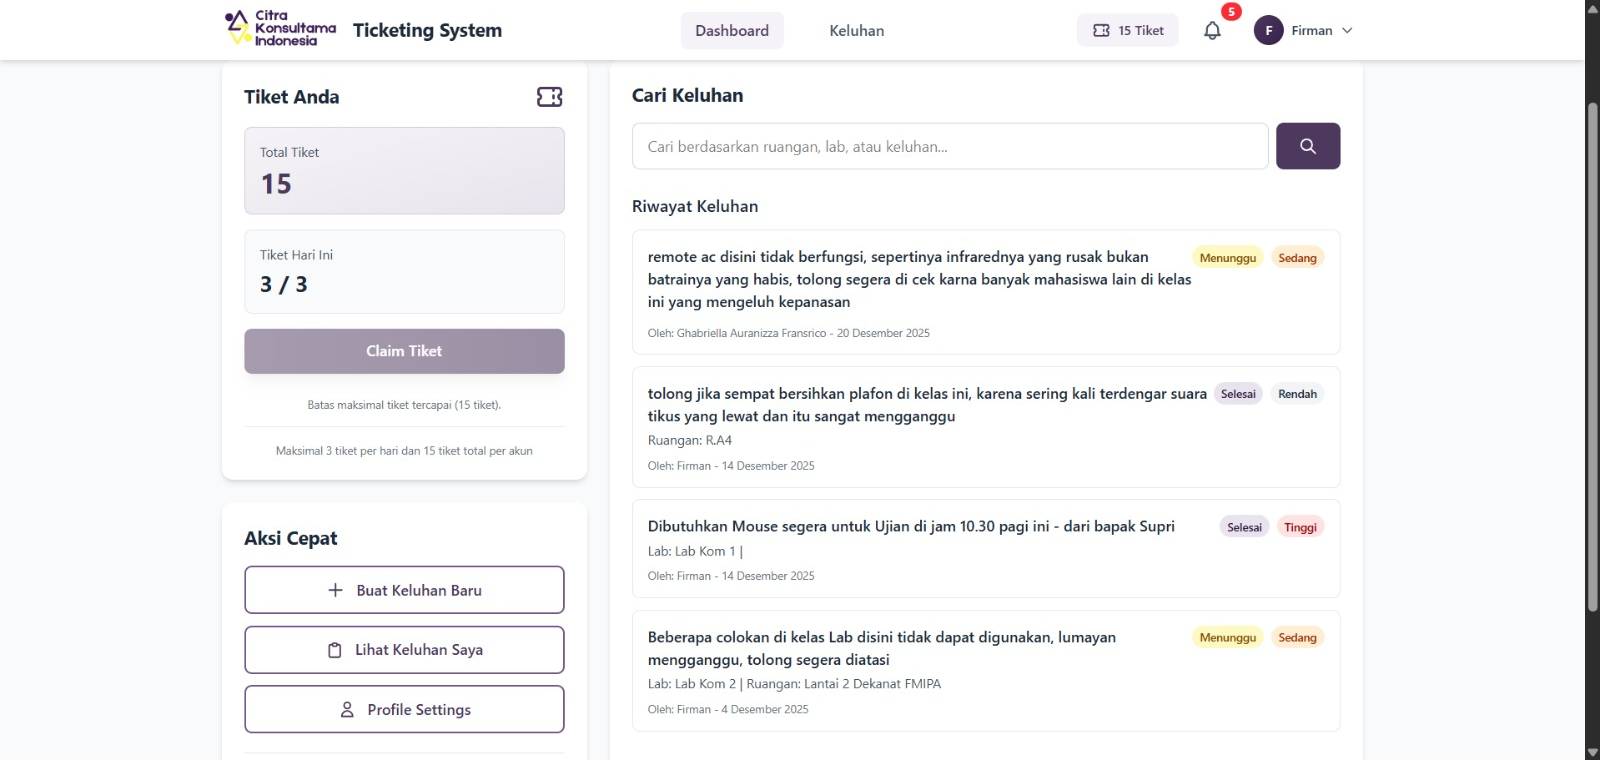
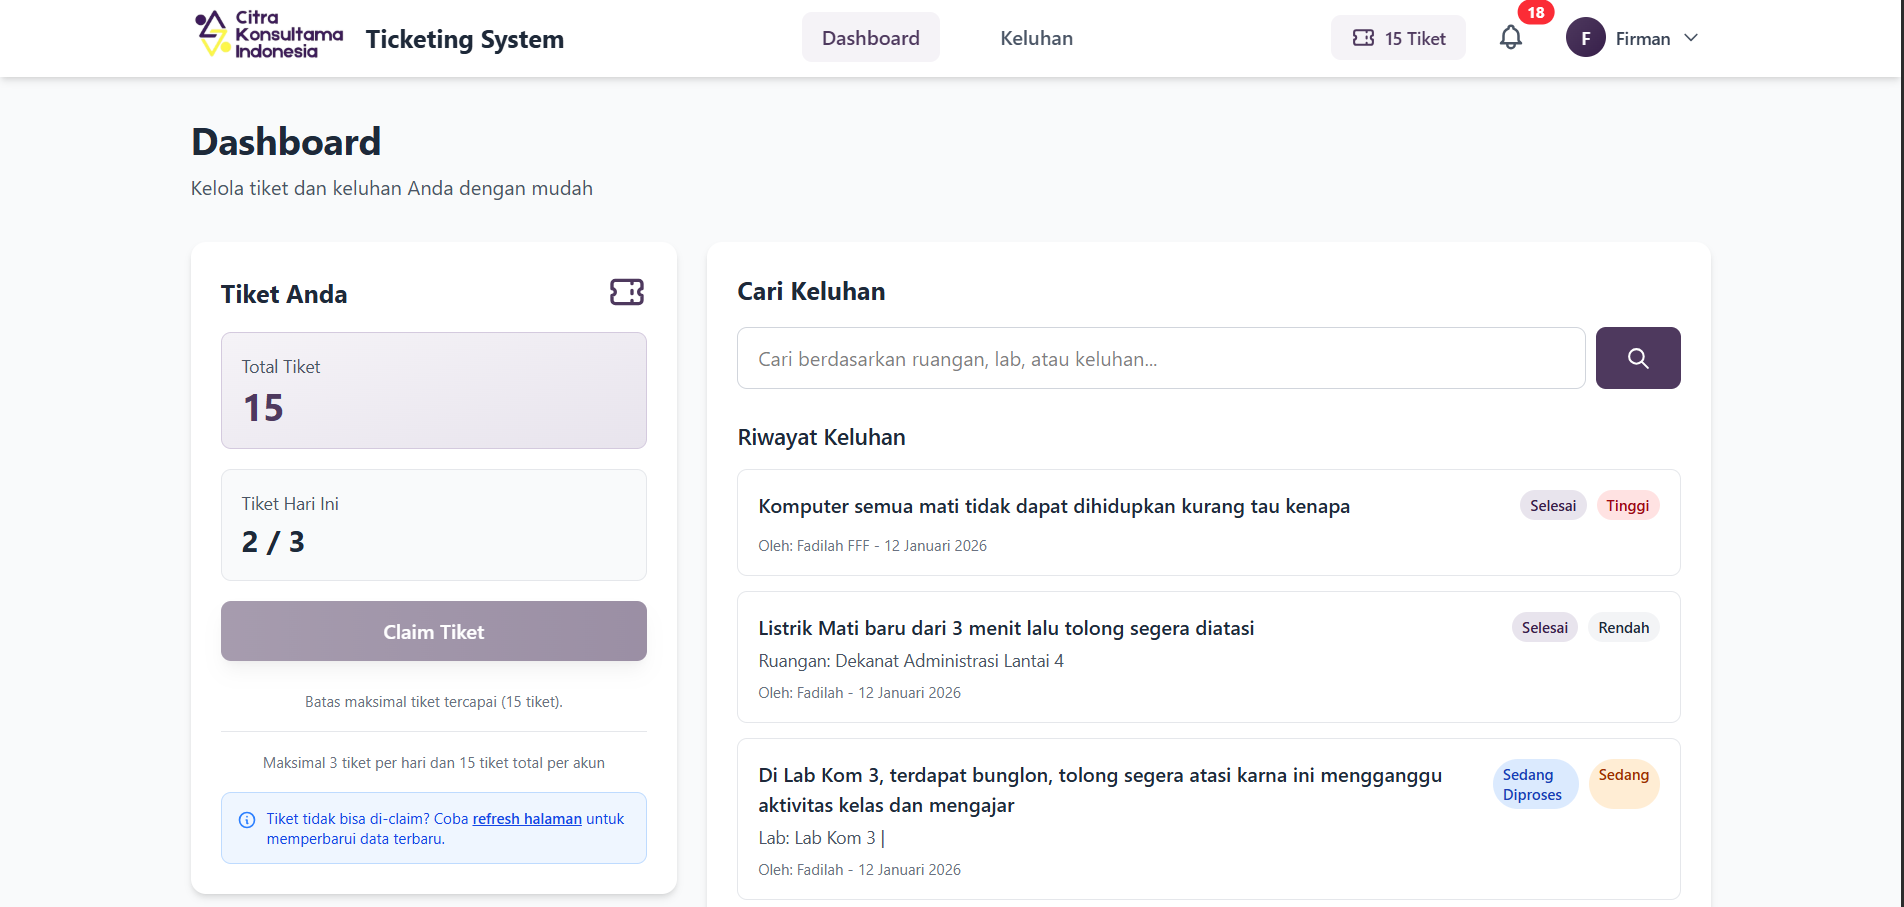
feat(work): show CAST as its desktop dashboard and Tangkis as an app mockup, use plain words instead of Lighthouse

diff --git a/src/data/site.js b/src/data/site.js
@@ -26,8 +26,8 @@ export const PROJECTS = [
     year: "2026",
     line: { id: "Website salon di Negara: 5 halaman, 2 bahasa, admin pengumuman.", en: "A salon website in Negara, Bali: 5 pages, 2 languages, an announcement admin." },
     story: {
-      id: "Website pertama yang saya buat untuk usaha sungguhan. Pelanggan studio ini datang dari Instagram dan booking lewat WhatsApp, jadi website-nya menjawab pertanyaan yang paling sering masuk: buka atau tidak, berapa harganya, dan jam berapa bisa datang. Setelah versi pertama dikritik terlalu ramai dalam satu halaman, saya memecahnya menjadi lima halaman dengan menu yang selalu terlihat, menambah versi bahasa Inggris untuk turis, peta lokasi, galeri dari Instagram, dan halaman admin agar pemiliknya bisa memasang pengumuman libur sendiri. Hasilnya: performa 96, SEO, aksesibilitas, dan best practices 100 di Lighthouse.",
-      en: "The first website I built for a real business. The studio's customers find it on Instagram and book on WhatsApp, so the site answers what they always ask: are you open, how much, and when can I come. After the first version was critiqued as too crowded on one page, I split it into five pages with a menu that stays in view, added an English version for tourists, a location map, an Instagram gallery and an admin page so the owner can post holiday notices. The result: performance 96, and 100 for SEO, accessibility and best practices in Lighthouse."
+      id: "Website pertama yang saya buat untuk usaha sungguhan. Pelanggan studio ini datang dari Instagram dan booking lewat WhatsApp, jadi website-nya menjawab pertanyaan yang paling sering masuk: buka atau tidak, berapa harganya, dan jam berapa bisa datang. Setelah versi pertama dikritik terlalu ramai dalam satu halaman, saya memecahnya menjadi lima halaman dengan menu yang selalu terlihat, menambah versi bahasa Inggris untuk turis, peta lokasi, galeri dari Instagram, dan halaman admin agar pemiliknya bisa memasang pengumuman libur sendiri. Hasilnya: website-nya cepat dibuka di HP, mudah ditemukan di Google, dan nyaman dipakai siapa saja.",
+      en: "The first website I built for a real business. The studio's customers find it on Instagram and book on WhatsApp, so the site answers what they always ask: are you open, how much, and when can I come. After the first version was critiqued as too crowded on one page, I split it into five pages with a menu that stays in view, added an English version for tourists, a location map, an Instagram gallery and an admin page so the owner can post holiday notices. The result: it opens fast on a phone, is easy to find on Google and is comfortable for anyone to use."
     },
     role: { id: "Desain dan pengembangan, sendiri", en: "Design and build, solo" },
     stack: ["Astro", "Cloudflare Pages Functions", "KV", "Lenis", "i18n ID/EN"],
@@ -85,8 +85,7 @@ export const PROJECTS = [
     live: null,
     repo: "https://github.com/manrandomside/layanan-pengaduan-kebutuhan-akademisi-ticketing",
     award: null,
-    image: "shots/cast-mobile",
-    phone: true // the mobile view Firman supplied, shown as a phone screen
+    image: "shots/cast" // a responsive web app, so the card shows its desktop dashboard
   },
   {
     slug: "miaw",
@@ -120,8 +119,8 @@ export const PROJECTS = [
     live: null,
     repo: "https://github.com/manrandomside/tangkis",
     award: null,
-    image: "shots/tangkis",
-    phone: true // an Android app: shown as a phone screen, not a desktop crop
+    image: "shots/tangkis-mockup",
+    mockup: true // an Android app, shown as Firman's phone mockup (transparent PNG), contained not cropped
   },
   {
     slug: "teen-digital-toxicity",
@@ -178,11 +177,11 @@ export const PROJECTS = [
 
 export const FEATURED = ["early-beauty", "kioku", "kelola-sdm"];
 
-// the phone-first wall: mobile screens in three columns, each opening its project
+// the phone-first wall: mobile screens of websites (not apps) in three columns, each opening its project
 export const PHONES = [
   [{ image: "shots/early-beauty-phone", slug: "early-beauty" }, { image: "phones/kioku", slug: "kioku" }],
   [{ image: "phones/early-beauty-harga", slug: "early-beauty" }, { image: "shots/cast-mobile", slug: "cast" }],
-  [{ image: "phones/miaw", slug: "miaw" }, { image: "shots/tangkis", slug: "tangkis" }]
+  [{ image: "phones/miaw", slug: "miaw" }, { image: "phones/early-beauty-layanan", slug: "early-beauty" }]
 ];
 
 export const FILTERS = [
@@ -298,7 +297,7 @@ export const UI = {
       id: "Salon eyelash dan nails di Negara ini dulu hanya punya Instagram. Sekarang pelanggan bisa cek harga, menghitung harga nails sendiri, lalu booking lewat WhatsApp, dalam bahasa Indonesia atau Inggris. Pemiliknya mengatur pengumuman libur sendiri dari halaman admin.",
       en: "This lash and nail studio in Negara used to have only Instagram. Now customers check prices, price their own nails and book on WhatsApp, in Indonesian or English. The owner posts holiday notices from a simple admin page."
     },
-    facts: [{ id: "5 halaman", en: "5 pages" }, { id: "2 bahasa", en: "2 languages" }, { id: "Admin pengumuman", en: "Announcement admin" }, { id: "Lighthouse 96–100", en: "Lighthouse 96–100" }],
+    facts: [{ id: "5 halaman", en: "5 pages" }, { id: "2 bahasa", en: "2 languages" }, { id: "Admin pengumuman", en: "Announcement admin" }, { id: "Cepat dibuka di HP", en: "Opens fast on phones" }],
     live: { id: "Buka website-nya", en: "Open the website" },
     story: { id: "Baca ceritanya", en: "Read the story" }
   },
